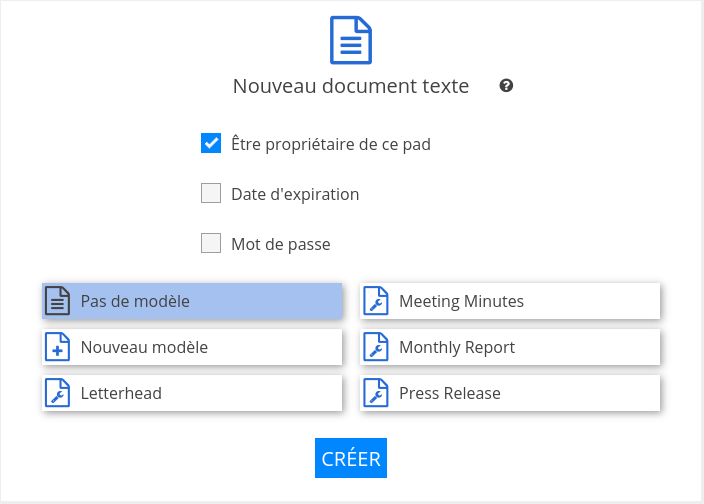
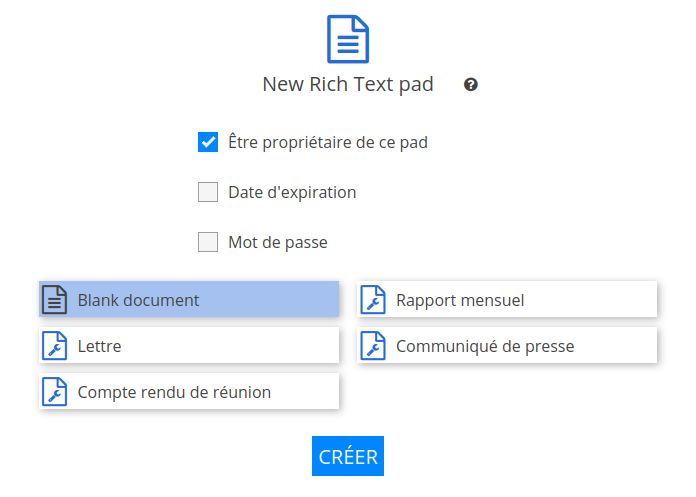
Update template section in document creation screen

diff --git a/user_guide/apps/general.rst b/user_guide/apps/general.rst
@@ -37,7 +37,16 @@ created.
 -  **Add a password**: Secure the sharing of the document with a
    :ref:`password <passwords>`. This setting can be changed later in the :ref:`access` menu.
 
--  **Template**: Use a :ref:`template <templates>` as a starting point for the document.
+-  **Template**: Choose to start from a blank document or use a :ref:`template <templates>` as a starting point.
+
+.. note::
+   All templates saved in CryptDrive or in teams that you are part of appear on the creation screen. To save a document as a template:
+
+   - In the open document: |file-o| **File** > |cptools new-template| **Save as template**.
+
+   or
+
+   - In the CryptDrive: Drag the document to the |cptools template| **Templates** folder.
 
 .. _saving:
 
